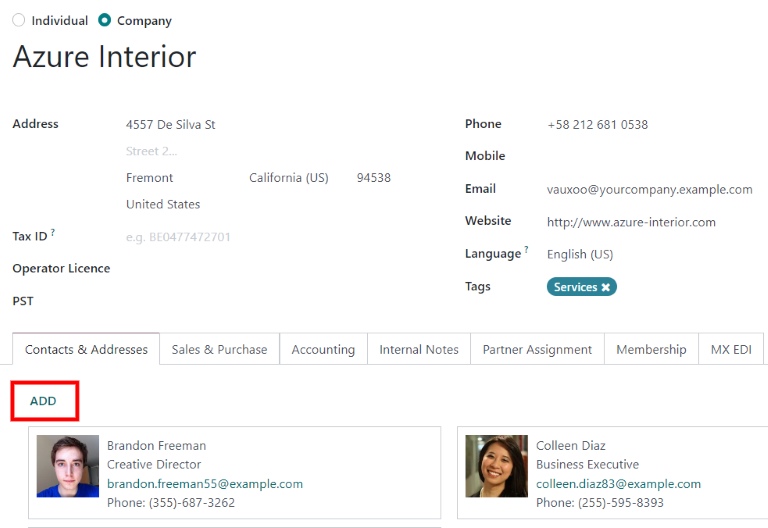
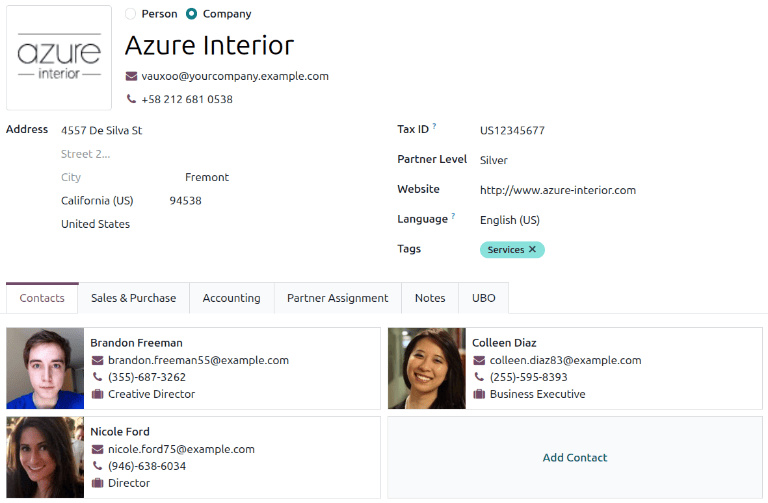
[IMP] Sales: Minor 'Different Addresses' update
closes odoo/documentation#15862

X-original-commit: 96c6ae8ac0cf406d04cfb24bbc54da88e1b8809b

diff --git a/content/applications/sales/sales/sales_quotations/different_addresses.rst b/content/applications/sales/sales/sales_quotations/different_addresses.rst
@@ -3,18 +3,17 @@ Deliveries and invoices to different addresses
 ==============================================
 
 People and businesses often use separate addresses for billing (invoicing) and shipping (delivery)
-purposes. With the Odoo *Sales* app, contacts can have different specified addresses for delivery
+purposes. With the Odoo **Sales** app, contacts can have different specified addresses for delivery
 and invoicing.
 
 Settings
 ========
 
-To properly utilize multiple addresses in Odoo, go to :menuselection:`Accounting app -->
+To properly utilize multiple addresses in Odoo, go to the :menuselection:`Accounting app -->
 Configuration --> Settings`, and scroll down to the :guilabel:`Customer Invoices` heading. Then,
-tick the checkbox.
+tick the :guilabel:`Customer Addresses` checkbox.
 
 .. image:: different_addresses/customer-addresses-setting.png
-   :align: center
    :alt: Activate the Customer Addresses setting.
 
 .. _sales/send_quotations/contact-form-config:
@@ -22,59 +21,44 @@ tick the checkbox.
 Contact form configuration
 ==========================
 
-To add multiple addresses to a contact, go to :menuselection:`Sales app --> Orders --> Customers`,
-and clear any default filters from the search bar. Then, click on the desired customer to open their
-contact form.
+To add multiple addresses to a contact, go to the :menuselection:`Sales app --> Orders -->
+Customers`, and clear any default filters from the search bar. Then, click on the desired customer
+to open their contact form.
 
 .. tip::
-   Contact forms can be accessed in the *Contacts* application, as well.
+   Contact forms can be accessed in the **Contacts** application, as well.
 
-From the contact form, click :guilabel:`Edit`, and then select :guilabel:`Add`, which is located
-under the :guilabel:`Contacts & Addresses` tab. Doing so reveals a :guilabel:`Create Contact` pop-up
-form, in which additional addresses can be configured.
+From the contact form, click the :guilabel:`Add Contact` button, which is located under the
+:guilabel:`Contacts` tab. This brings up the :guilabel:`Create Contact` pop-up form, in which
+additional addresses can be configured.
 
 .. image:: different_addresses/contact-form-add-address.png
-   :align: center
    :alt: Add a contact/address to the contact form.
 
-On the :guilabel:`Create Contact` pop-up form, start by clicking the default :guilabel:`Other
-Address` field to reveal a drop-down menu of address-related options.
+On the :guilabel:`Create Contact` pop-up form, select any of the following options:
 
-Select any of the following options:
-
-- :guilabel:`Contact`: adds another contact to the existing contact form.
-- :guilabel:`Invoice Address`: adds a specific invoice address to the existing contact form.
-- :guilabel:`Delivery Address`: adds a specific delivery address to the existing contact form.
-- :guilabel:`Other Address`: adds an alternate address to the existing contact form.
-- :guilabel:`Private Address`: adds a private address to the existing contact form.
-
-Once an option is selected, proceed to enter the corresponding contact information that should be
-used for the specified address type.
+- :guilabel:`Contact`: Adds another contact, such as an employee at a company, to the contact form.
+- :guilabel:`Invoice`: Adds a default invoice address to the contact form.
+- :guilabel:`Delivery`: Adds a default delivery address to the contact form.
+- :guilabel:`Other Address`: Adds an alternate address to the contact form.
 
 .. image:: different_addresses/create-contact-window.png
-   :align: center
    :alt: Create a new contact/address on a contact form.
 
-Then, click :guilabel:`Save & Close` to save the address and close the :guilabel:`Create Contact`
-window. Or, click :guilabel:`Save & New` to save the address and immediately input another one.
+Once the corresponding information has been entered, click :guilabel:`Save & Close` to save the
+address and close the :guilabel:`Create Contact` window. To save the address and input additional
+contact information, click :guilabel:`Save & New` instead.
 
-Address added to quotations
-===========================
+Quotations and autopopulated addresses
+======================================
 
-When a customer is added to a quotation, the :guilabel:`Invoice Address` and :guilabel:`Delivery
-Address` fields autopopulate with the corresponding addresses specified on the customer's contact
-form.
+When a customer with invoice and delivery addresses in their contact form is added to a quotation,
+the :guilabel:`Invoice Address` and :guilabel:`Delivery Address` fields autopopulate with the
+corresponding addresses.
 
 .. image:: different_addresses/quotation-address-autopopulate.png
-   :align: center
    :alt: Invoice and Delivery Addresses autopopulate on a quotation.
 
 The :guilabel:`Invoice Address` and :guilabel:`Delivery Address` can also be edited directly from
-the quotation by clicking the :guilabel:`Edit` button, and then clicking the :guilabel:`➡ (right
-arrow)` internal link buttons next to each address line.
-
-These addresses can be updated at any time to ensure accurate invoicing and delivery.
-
-.. tip::
-   If any changes are made on a form in Odoo, include *Contacts* forms, remember to click
-   :guilabel:`Save` to save the changes to the database.
+the quotation by mousing over the address and clicking the :icon:`oi-arrow-right`
+:guilabel:`(Internal Link)` icon.
